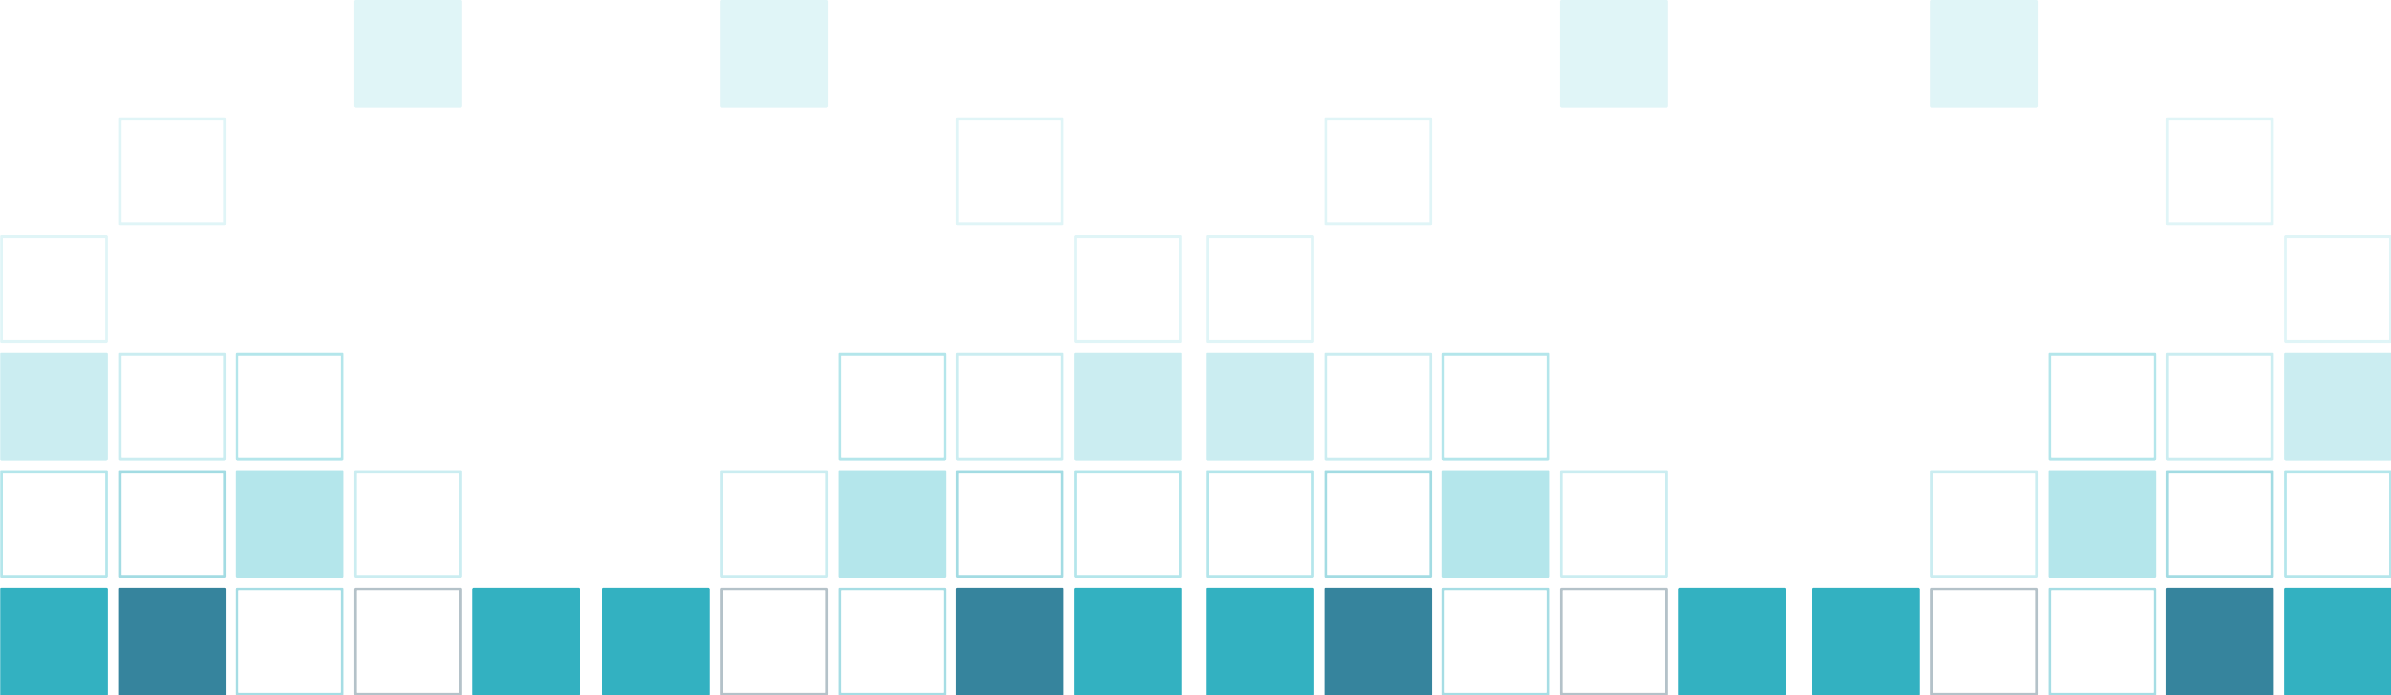
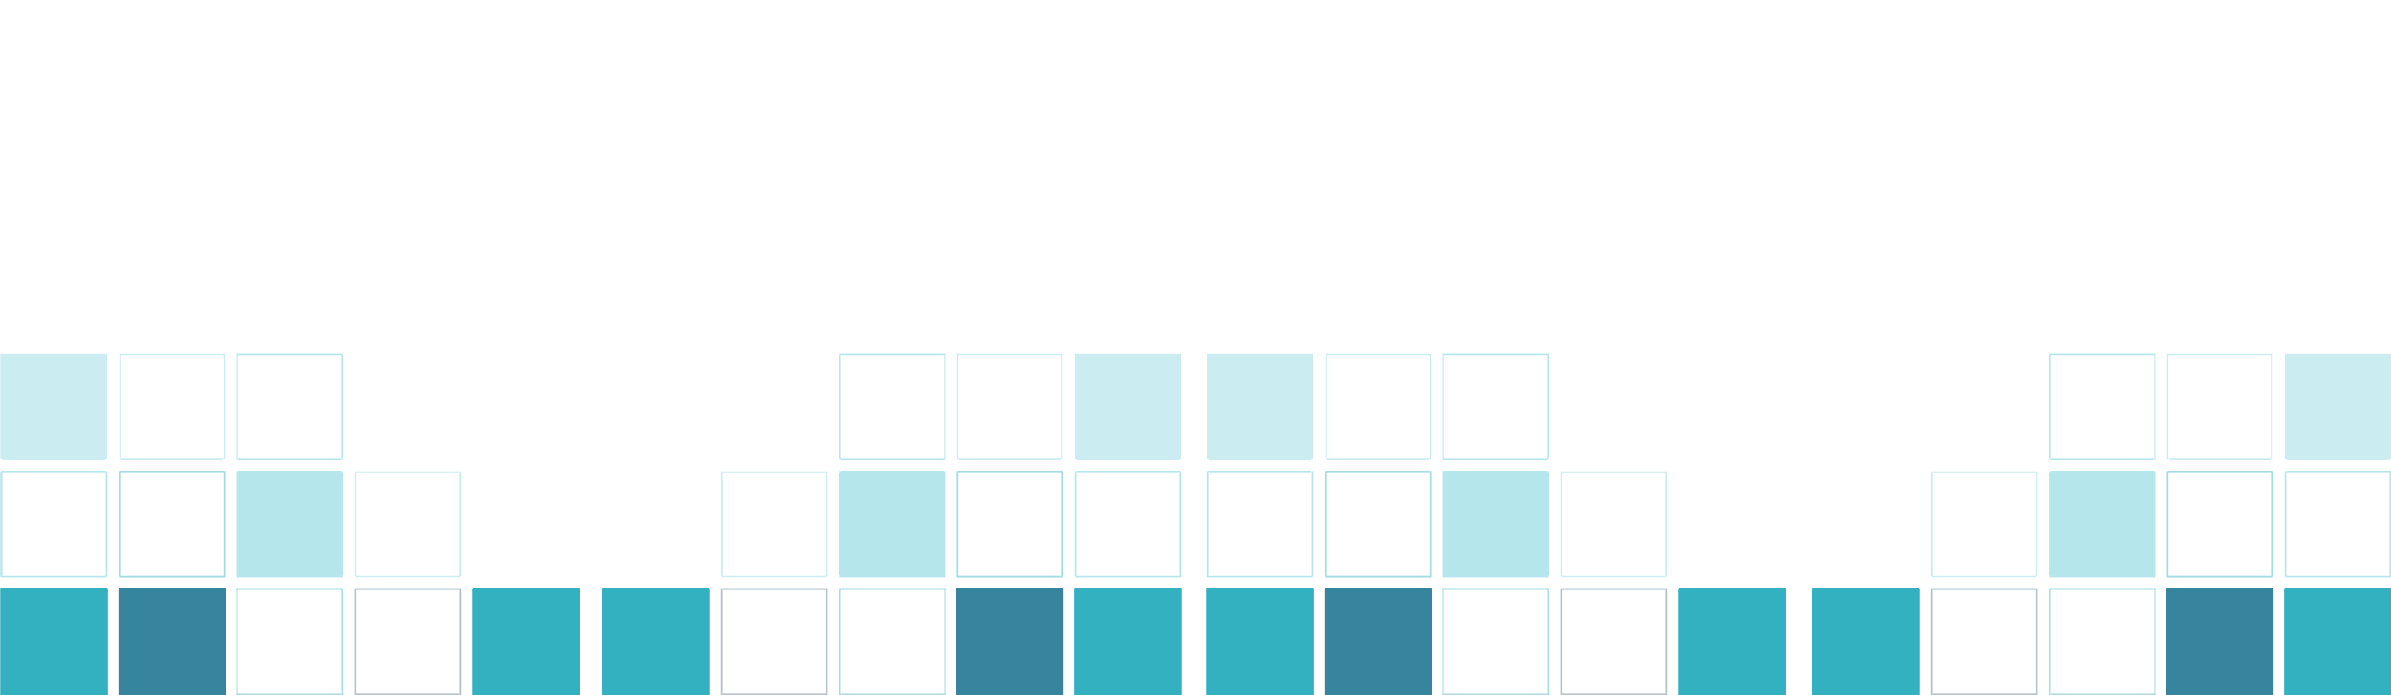
update

diff --git a/suggestions/public/index.html b/suggestions/public/index.html
@@ -18,21 +18,21 @@
 <body>
 	<header class="main-header">
 		<!-- Logo -->
-		<a class="logo" target="blank">
-		  <img src="img/soutec.png" height="30px" href="http://www.soutec-group.com" style="margin-left:-3%;">
-		  <img src="img/settings.png" height="12px" data-toggle="modal" data-target="#myModal10" id="log" title="Iniciar Sesión" style="margin-left:35%;">
-		</a>
+		<a class="logo" target="blank" style="width: 100%;padding:0px;">
+		  <img src="img/soutec.png" height="30px" href="http://www.soutec-group.com" id="soutec">
+		  <img src="img/settings.png" height="10px" data-toggle="modal" data-target="#myModal10" id="log" title="Iniciar Sesión">
+		</a>&nbsp;
 	</header>
-	<div style="text-align:center;color:white;background-color:#08678e;padding-bottom:1px;">
+	<div style="text-align:center;padding-bottom:20px;padding-top:1px;" id="titulo">
 		<h1>Dashboard de sugerencias</h1>
 	</div>
 	<div style="text-align:center;margin-bottom:15px;">
 		<h2>¿Desea hacer alguna sugerencia? Pulse <a href="https://goo.gl/forms/535TVJhxW5AVXyVs1" target="blank">aquí</a></h2>
 	</div>
-	<div class="row" style="margin-bottom:40%;">
+	<div class="row" id="contenido">
 		<div class="col-md-4" style="margin-bottom:20px;">
 			<h3 style="padding-left:4%">Estatus de las sugerencias</h3>
-			<h4 style="padding-left:4%">Pendientes:</h4>
+			<h4 style="padding-left:4%;padding-top:3%;">Pendientes:</h4>
 			<div id="options" style="margin-left:40px;display:none;">
 				<i class="fa fa-pencil-square-o" aria-hidden="true" title="Editar" onclick="app.editPend();" id="editar"></i>&nbsp;
 				<i class="fa fa-fw fa-plus" onclick="app.newSugg();" title="Añadir" id="añadir"></i>
@@ -49,12 +49,12 @@
 		    	<button id="button" type="button" class="btn btn-primary" style="margin-top:2%;" onclick="app.saveStat();">Enviar</button>
 		    </div>
 		</div>
-		<div class="col-md-4" style="margin-bottom:20px;">
+		<div class="col-md-4" style="margin-bottom:35px;margin-top:50px;" id="chart">
             <div class="chart-container">
               <canvas id="pieChart" style="height:250px"></canvas>
             </div>
 		</div>
-		<div class="col-md-4" style="margin-bottom:20px;">
+		<div class="col-md-4" style="margin-bottom:20px;" id="comp">
 			<h4 style="padding-left:4%">Completadas:</h4>
 			<div id="comps"></div>
 		</div>
@@ -118,10 +118,7 @@
 <!-- ###################################################################################################### -->
 <!-- ###################################################################################################### -->
 	<footer>
-	  <img src="img/cuadritospq.png" height="100px" style="position:fixed;bottom:0;">
-	  <img src="img/cuadritospq.png" height="100px" style="position:fixed;bottom:0;left:330px;">
-	  <img src="img/cuadritospq.png" height="100px" style="position:fixed;bottom:0;left:660px;">
-	  <img src="img/cuadritospq.png" height="100px" style="position:fixed;bottom:0;right:0;">
+	  <img src="img/cuadritospq2.png" style="position:fixed;bottom:0;" id="bottom-img">
 	</footer>
 
 </body>

diff --git a/suggestions/public/css/index.css b/suggestions/public/css/index.css
@@ -22,3 +22,85 @@ label{
 	text-align: center;
 	font-size: 15px;
 }
+#titulo{
+	background-color:#08678e;
+	color:white;
+	margin-top: -23px;
+}
+#log{
+	margin-top: -40px;
+	margin-left: 130px;
+}
+#contenido{
+	margin-bottom:80px;
+}
+#soutec{
+	margin-left: -5px;
+	margin-top: -15px;
+}
+@media (min-width: 390px){
+	#log{
+		margin-left: 190px;
+	}
+}
+@media (min-width: 420px){
+	#log{
+		margin-left: 220px;
+	}
+}
+@media (min-width: 480px){
+	#log{
+		margin-left: 290px;
+	}
+}
+@media (min-width: 560px){
+	#log{
+		margin-left: 370px;
+	}
+	#soutec{
+		margin-left: -10px;
+	}
+}
+@media (min-width: 620px){
+	#log{
+		margin-left: 430px;
+	}
+}
+@media (min-width: 680px){
+	#log{
+		margin-left: 480px;
+	}
+}
+@media (min-width: 768px){
+	#log{
+		margin-left: 560px;
+	}
+}
+@media (min-width: 850px){
+	#log{
+		margin-left: 650px;
+	}
+}
+@media (min-width: 910px){
+	#log{
+		margin-left: 720px;
+	}
+}
+@media (min-width: 992px){
+	#chart{
+		padding-top: 35px;
+	}
+	#comp{
+		margin-top: 55px;
+	}
+}
+@media (min-width: 1020px){
+	#log{
+		margin-left: 830px;
+	}
+}
+@media (min-width: 1200px){
+	#log{
+		margin-left: 990px;
+	}
+}

diff --git a/suggestions/public/js/index.js b/suggestions/public/js/index.js
@@ -209,3 +209,13 @@ firebase.auth().onAuthStateChanged(function(user){
     console.log('User sign out');
   }
 });
+
+/*if (screen.width > 480) {
+  $("#bottom-img").attr("src","img/cuadritospq4.png");
+}
+else if (screen.width > 800) {
+  $("#bottom-img").attr("src","img/cuadritospq3.png");
+}
+else if (screen.width > 1024) {
+  $("#bottom-img").attr("src","img/cuadritospq2.png");
+}*/
